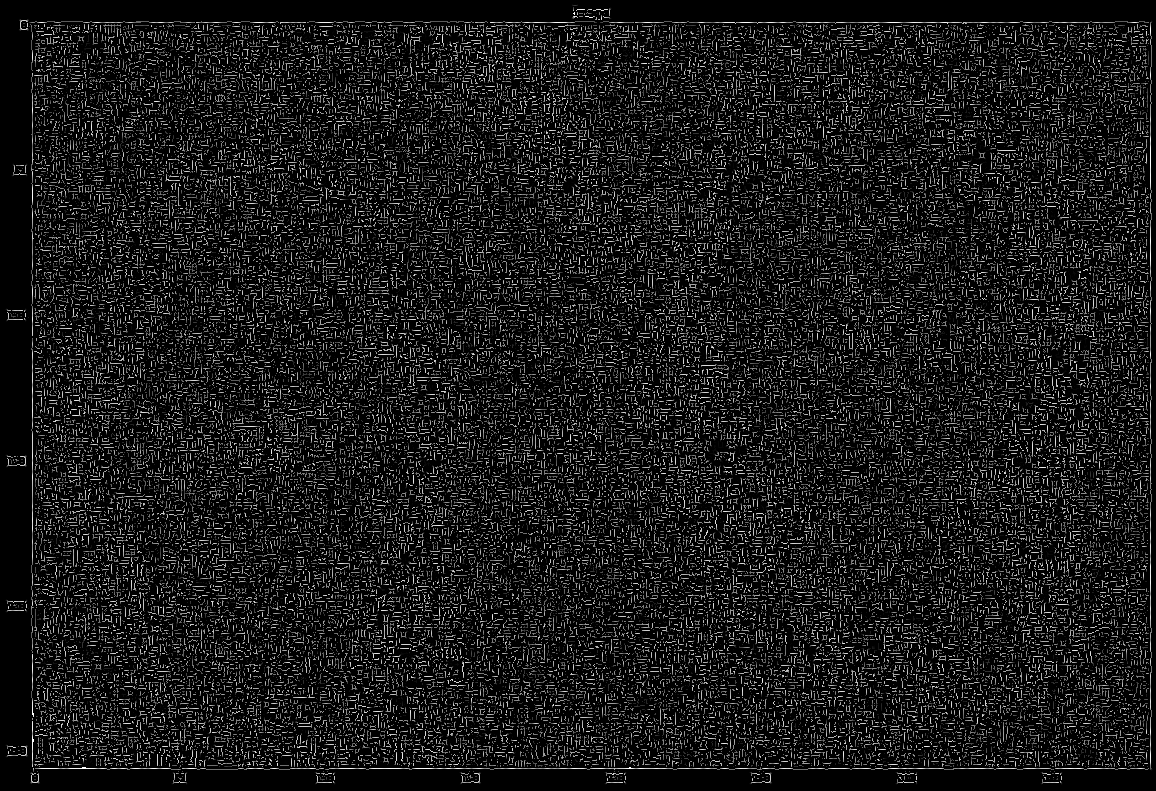
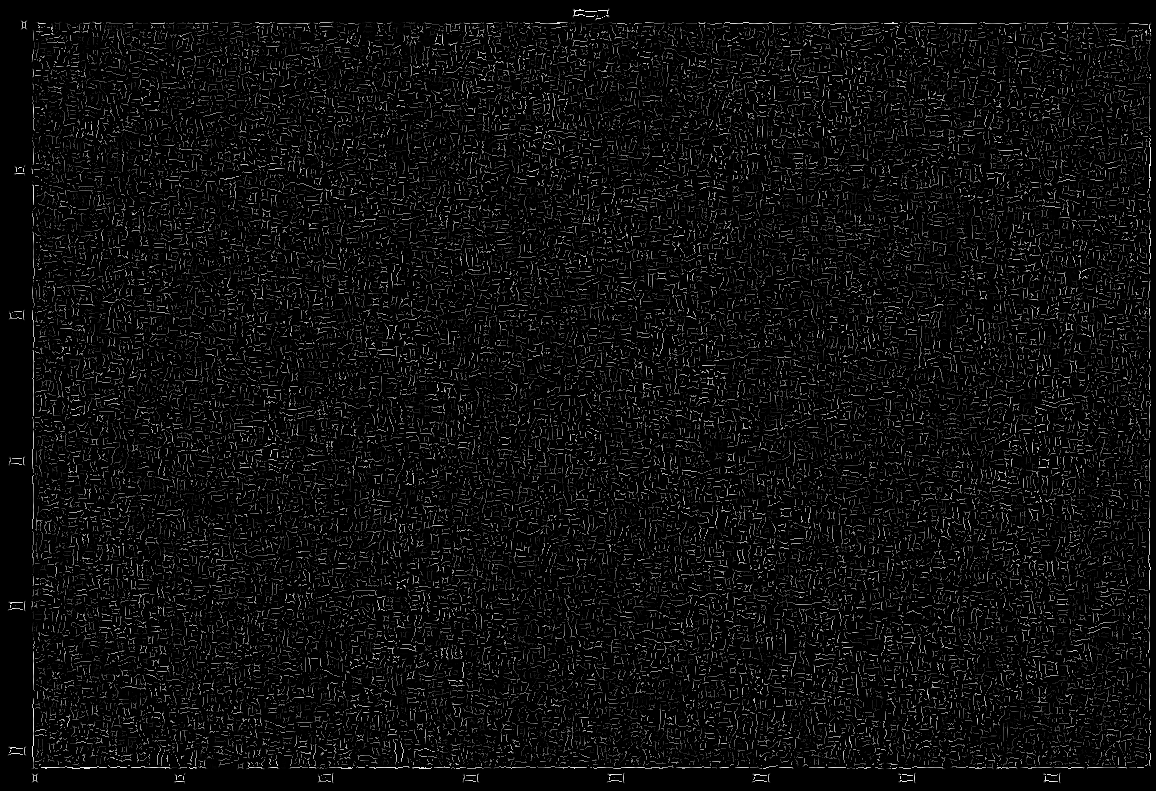
ds

Changed region(s): [[0.0, 0.0, 0.9965, 1.0]]

diff --git a/ComputerVision/labs/README.md b/ComputerVision/labs/README.md
@@ -1,0 +1,86 @@
+# 🎓 Computer Vision Labs: Exam Study Guide
+
+This guide is designed to help you ace your exam. It breaks down the core concepts and operations from **Labs 1 to 6** into simple parts.
+
+---
+
+## 🖼️ Lab 1: Image Basics & Digital Vision
+> [!NOTE]
+> This lab covers how computers "see" images as grids of numbers.
+
+*   **Concepts:**
+    *   **Pixels:** The tiny dots that make up an image.
+    *   **Resolution:** The width × height of the pixel grid.
+*   **Key Operations:**
+    *   `cv2.imread()`: Loads your image file.
+    *   **Color Channels:** RGB has 3 layers (Red, Green, Blue). Grayscale has only 1 layer.
+*   **Study Tip:** Remember that a Grayscale image is just a 2D matrix of numbers from 0 (Black) to 255 (White).
+
+---
+
+## 💡 Lab 2: Brightness, Contrast & Normalization
+> [!TIP]
+> Use these steps when an image is too dark or too "flat" to see details.
+
+*   **Concepts:**
+    *   **Point Operations:** Changing one pixel at a time.
+*   **Key Operations:**
+    *   **Normalization:** Stretching the colors so they use the full range from 0 to 255.
+    *   **Gamma Correction:** A math trick ($S = C \cdot R^\gamma$) to brighten dark shadows without ruining the bright spots.
+*   **Math:** If $\gamma < 1$, the image gets brighter. If $\gamma > 1$, it gets darker.
+
+---
+
+## 🔍 Lab 3: Region of Interest (ROI) & CLAHE
+> [!IMPORTANT]
+> This lab focused on "revealing" objects hidden in the dark.
+
+*   **Concepts:**
+    *   **ROI:** Selecting a specific box/area to focus on.
+*   **Key Operations:**
+    *   **YUV Space:** We convert to YUV so we can change the **Brightness (Y)** without messing up the **Colors (UV)**.
+    *   **CLAHE:** "Contrast Limited Adaptive Histogram Equalization". It brightens local areas carefully so the image doesn't look "blown out."
+    *   **Bounding Boxes:** Drawing rectangles around things we find.
+
+---
+
+## 🌫️ Lab 4: Custom Filters & Convolution
+> [!NOTE]
+> This is about "sliding windows" (Kernels) to change how an image looks.
+
+*   **Concepts:**
+    *   **Kernel:** A small 3x3 or 5x5 grid of numbers used for math.
+    *   **Convolution:** The process of sliding that kernel over every pixel.
+*   **Key Operations:**
+    *   **Blurring:** An "average" kernel that smooths things out.
+    *   **Sobel Edge Detection:** Kernels that find horizontal ($S_x$) and vertical ($S_y$) changes.
+
+---
+
+## ⚔️ Lab 5: Canny Edge Detection (High Quality)
+> [!TIP]
+> This is the "Gold Standard" for finding clean, sharp edges.
+
+*   **Concepts:**
+    *   **Noise Removal:** Cleaning the "graininess" so the computer doesn't mistake it for an edge.
+*   **Key Operations:**
+    *   **Median Filter:** Replaces a pixel with the middle value of its neighbors (great for "pepper" noise).
+    *   **Gaussian Blur:** Smooths the image with a weighted average.
+    *   **NMS (Non-Maximum Suppression):** A fancy way to "thin" edges so they are only 1 pixel wide.
+
+---
+
+## 🔳 Lab 6: Binarization & Logic
+> [!IMPORTANT]
+> This lab is about turning photos into simple Black & White "masks."
+
+*   **Concepts:**
+    *   **Thresholding:** Picking a cutoff point (like 127) where everything below is Black and above is White.
+*   **Key Operations:**
+    *   **Otsu’s Method:** The computer automatically finds the "perfect" cutoff point.
+    *   **Bitwise Inversion:** Flipping colors (`cv2.bitwise_not`).
+    *   **White Ratio:** Calculating how much of the image is "foreground" (White) vs "background" (Black).
+
+---
+
+🚀 **Exam Preparation Tip:** Go through each notebook and try to explain what the graphs/images show to a friend. If you can explain the "Before" and "After," you know the concept!